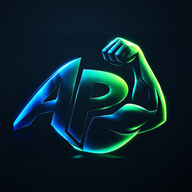
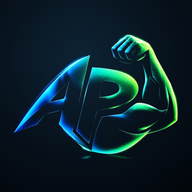
Stop the launch mark reading as a pasted image, and give it a real effort
The mark sat on a rectangle. Bisecting the splash layer by layer, with
the step measured across a scanline rather than judged by eye, found
three separate causes stacked on top of each other, each of which drew
its own box:

  · the cutout kept a veil of near-transparent background, because the
    artwork's own backdrop reaches luminance 63 and the alpha floor sat
    at 14. Any additive layer lit that veil up as a rectangle.
  · filling the artwork's interior shading by blurring and thresholding
    the luminance spread dark smudges outward past the silhouette. It is
    now a morphological close — dilate then erode at the same radius —
    which closes the interior gaps without growing the outline.
  · the glow lived on the same element as the wipe, and clip-path clips
    a filter's output, so the drop-shadow ended on a straight edge. The
    glow moved to the wrapper, the clip stayed on the image.

Also drops the additive bloom layer, whose blend inside an isolated
stacking context left the group's rectangle, and the perspective grid,
whose plane lands behind the mark as a band. The verification is an
alpha map plus the mark composited on mid-grey, where any surviving
veil is obvious.

The gesture is no longer a uniform zoom. It gathers — a short dip and
counter-rotation — then drives up and out, pivoted low so the arm
travels and the base stays planted, holds with a small tremor that is
what actually reads as effort, and releases. The scene answers: a light
[…]

Changed region(s): [[0.0625, 0.1562, 0.9375, 0.8438], [0.5625, 0.6562, 0.5938, 0.6875]]

diff --git a/index.html b/index.html
@@ -537,65 +537,115 @@ a{color:inherit;}
 #modalWeighIn .modal-foot .btn{justify-content:center;white-space:nowrap;}
 .weigh-hint{font-size:12.5px;line-height:1.5;color:var(--text-faint);margin-top:12px;}
 .field-hint{font-size:12px;line-height:1.5;color:var(--text-faint);margin-top:6px;}
-/* ---------------- pantalla de bienvenida ---------------- */
-/* La marca entra de izquierda a derecha: primero el monograma, y el brazo se
-   despliega detrás; después tensa, como quien aprieta el bíceps. */
+/* ---------------- pantalla de bienvenida ----------------
+   Criterio: movimientos cortos y precisos, luz que sólo toca el logo (nunca un
+   lavado de color sobre la pantalla) y un espacio que es el mismo de la app,
+   para que al entrar no haya salto. El brillo del esfuerzo se hace con una
+   copia del propio PNG en mezcla aditiva: así jamás aparece una caja. */
 #splash{
   position:fixed;inset:0;z-index:400;display:flex;flex-direction:column;
   align-items:center;justify-content:center;
-  background:radial-gradient(125% 95% at 46% 38%, #0e2436 0%, #071019 52%, #02060b 100%);
-  transition:opacity .45s ease, visibility .45s ease;
+  background:#04080e;
+  transition:opacity .5s cubic-bezier(.4,0,.2,1), visibility .5s;
   overflow:hidden;
 }
 #splash.gone{opacity:0;visibility:hidden;pointer-events:none;}
-.splash-stage{position:relative;display:flex;flex-direction:column;align-items:center;}
+
+.sp-bg{position:absolute;inset:0;overflow:hidden;pointer-events:none;}
+/* Sin rejilla en la bienvenida: su plano en perspectiva aterriza como una banda
+   rectangular detrás del logo y lo hace ver pegado sobre un recorte. */
+.sp-orb{position:absolute;border-radius:50%;filter:blur(90px);opacity:.16;}
+.sp-orb.o1{width:520px;height:520px;background:var(--cyan);top:-170px;left:-160px;}
+.sp-orb.o2{width:580px;height:580px;background:var(--green);bottom:-230px;right:-190px;}
+/* Charco de luz bajo la marca: contenido, del tamaño del logo, no de la pantalla. */
+.sp-pool{
+  position:absolute;left:50%;top:46%;width:min(96vw,430px);aspect-ratio:1.45/1;
+  transform:translate(-50%,-50%) scale(.9);border-radius:50%;
+  background:radial-gradient(ellipse at 38% 50%, rgba(34,232,255,.34), rgba(34,232,255,0) 62%),
+             radial-gradient(ellipse at 64% 54%, rgba(43,255,168,.34), rgba(43,255,168,0) 62%);
+  filter:blur(38px);opacity:0;
+}
+.sp-vignette{
+  position:absolute;inset:0;pointer-events:none;
+  background:radial-gradient(125% 90% at 50% 46%, transparent 42%, rgba(2,5,9,.55) 82%, rgba(2,5,9,.85) 100%);
+}
+
+.splash-stage{position:relative;display:flex;flex-direction:column;align-items:center;z-index:2;}
 .splash-mark{
   position:relative;width:min(72vw,330px);
-  transform-origin: 24% 64%;   /* el codo imaginario: el brazo es lo que se mueve */
-  will-change: transform, opacity, filter;
+  transform-origin:60% 90%;      /* la base queda plantada; el brazo es lo que sube */
+  will-change:transform;
   opacity:0;
-  filter:drop-shadow(0 0 40px rgba(34,232,255,.3));
 }
-#splash.ready .splash-mark{
-  animation: markRise .62s cubic-bezier(.16,.9,.3,1) both,
-             markFlex .54s cubic-bezier(.34,1.5,.44,1) .76s both,
-             markGlow .58s ease-out .76s both;
-}
-.splash-mark img{ width:100%;height:auto;display:block;clip-path: inset(0 100% 0 0); }
-#splash.ready .splash-mark img{ animation: markWipe .76s cubic-bezier(.22,.72,.2,1) .08s both; }
-/* El logo es una imagen recortada: un filtro sólo toca sus píxeles, así que el
-   brillo del esfuerzo se enciende en el metal sin manchar el fondo. */
-.splash-word{ width:min(56vw,245px);margin-top:14px;opacity:0; }
-#splash.ready .splash-word{ animation: wordUp .5s cubic-bezier(.2,.8,.25,1) 1.06s both; }
-.splash-word img{width:100%;height:auto;display:block;filter:drop-shadow(0 0 18px rgba(43,255,168,.22));}
+.sp-layer{position:relative;}
+.sp-layer img{width:100%;height:auto;display:block;clip-path:inset(0 100% 0 0);}
+/* El resplandor va en el contenedor y el recorte en la imagen: al revés,
+   clip-path corta la sombra y se ve el borde recto del rectángulo. */
+.sp-base{filter:drop-shadow(0 0 26px rgba(34,232,255,.3));}
+#splash.ready .sp-base img{ animation: markWipe .70s cubic-bezier(.24,.7,.22,1) .06s both; }
+#splash.ready .sp-base{ animation: markBloom .74s cubic-bezier(.3,.8,.3,1) .76s both; }
+/* Nada de capas con mezcla: dentro de un contexto de apilamiento aislado
+   dejan el rectángulo del grupo. El destello va como filtro sobre la propia
+   imagen, que ya tiene el fondo recortado, así sólo toca sus píxeles. */
+
+.splash-word{width:min(56vw,246px);margin-top:20px;opacity:0;}
+.splash-word img{width:100%;height:auto;display:block;filter:drop-shadow(0 0 16px rgba(43,255,168,.26));}
 .splash-tag{
-  margin-top:14px;font-size:11px;font-weight:700;letter-spacing:.34em;text-transform:uppercase;
+  margin-top:12px;font-size:10.5px;font-weight:700;letter-spacing:.36em;text-transform:uppercase;
   color:var(--text-faint);opacity:0;
 }
-#splash.ready .splash-tag{ animation: wordUp .5s ease 1.3s both; }
-@keyframes markRise{ from{opacity:0;transform:translateY(16px) scale(.94);} to{opacity:1;transform:none;} }
-@keyframes markWipe{ from{clip-path:inset(0 100% 0 0);} to{clip-path:inset(-10% -10% -10% -10%);} }
-/* dos tiempos: tensa y suelta */
-@keyframes markFlex{
-  0%{transform:scale(1);}
-  38%{transform:scale(1.085) translateX(1.5%);}
-  62%{transform:scale(1.025) translateX(.4%);}
-  100%{transform:scale(1);}
-}
-@keyframes markGlow{
-  0%{ filter:drop-shadow(0 0 40px rgba(34,232,255,.3)) brightness(1); }
-  38%{ filter:drop-shadow(0 0 60px rgba(43,255,168,.62)) brightness(1.3) saturate(1.18); }
-  100%{ filter:drop-shadow(0 0 40px rgba(34,232,255,.3)) brightness(1); }
-}
-@keyframes wordUp{ from{opacity:0;transform:translateY(10px);} to{opacity:1;transform:none;} }
 .splash-skip{
-  position:absolute;bottom:calc(env(safe-area-inset-bottom) + 26px);
+  position:absolute;bottom:calc(env(safe-area-inset-bottom) + 26px);z-index:3;
   background:none;border:none;color:var(--text-faint);font:600 12px Inter,sans-serif;
   letter-spacing:.08em;cursor:pointer;padding:12px 20px;opacity:0;
 }
-#splash.ready .splash-skip{ animation: wordUp .4s ease 1.55s both; }
+
+/* ---- la secuencia arranca cuando la imagen ya está decodificada ---- */
+#splash.ready .splash-mark{
+  animation: markRise .58s cubic-bezier(.2,.9,.28,1) both,
+             markForce .82s cubic-bezier(.36,.06,.24,1) .70s both;
+}
+
+#splash.ready .sp-pool{ animation: poolPulse 1.25s cubic-bezier(.3,.7,.3,1) .5s both; }
+#splash.ready .splash-word{ animation: wordUp .46s cubic-bezier(.2,.85,.25,1) 1.3s both; }
+#splash.ready .splash-tag{ animation: wordUp .46s ease 1.5s both; }
+#splash.ready .splash-skip{ animation: wordUp .4s ease 1.74s both; }
+
+@keyframes markRise{ from{opacity:0;transform:translateY(14px) scale(.95);} to{opacity:1;transform:none;} }
+@keyframes markWipe{ from{clip-path:inset(0 100% 0 0);} to{clip-path:inset(-14% -14% -14% -14%);} }
+
+/* El gesto: toma impulso, empuja, aguanta con un temblor mínimo y suelta.
+   Amplitud corta a propósito; lo que lo vende es el ritmo, no el tamaño. */
+@keyframes markForce{
+  0%   { transform:rotate(0deg)    scale(1); }
+  14%  { transform:rotate(.7deg)   scale(.982); }
+  36%  { transform:rotate(-1.85deg) scale(1.055); }
+  46%  { transform:rotate(-1.5deg)  scale(1.045); }
+  54%  { transform:rotate(-1.82deg) scale(1.053); }
+  62%  { transform:rotate(-1.58deg) scale(1.046); }
+  70%  { transform:rotate(-1.75deg) scale(1.05); }
+  100% { transform:rotate(0deg)    scale(1); }
+}
+@keyframes markBloom{
+  0%  { filter:drop-shadow(0 0 26px rgba(34,232,255,.3)) brightness(1) saturate(1); }
+  34% { filter:drop-shadow(0 0 54px rgba(43,255,168,.62)) brightness(1.28) saturate(1.16); }
+  70% { filter:drop-shadow(0 0 40px rgba(43,255,168,.42)) brightness(1.12) saturate(1.07); }
+  100%{ filter:drop-shadow(0 0 26px rgba(34,232,255,.3)) brightness(1) saturate(1); }
+}
+@keyframes poolPulse{
+  0%{opacity:0;transform:translate(-50%,-50%) scale(.86);}
+  26%{opacity:.55;transform:translate(-50%,-50%) scale(1);}
+  46%{opacity:.85;transform:translate(-50%,-50%) scale(1.06);}
+  100%{opacity:.6;transform:translate(-50%,-50%) scale(1);}
+}
+@keyframes wordUp{ from{opacity:0;transform:translateY(9px);} to{opacity:1;transform:none;} }
+
 @media (prefers-reduced-motion:reduce){
-  .splash-mark,.splash-mark img,.splash-word,.splash-tag,.splash-skip{animation-duration:.01ms !important;animation-delay:0ms !important;}
+  #splash.ready .splash-mark,#splash.ready .sp-base img,#splash.ready .sp-base,
+  #splash.ready .splash-word,#splash.ready .splash-tag,#splash.ready .splash-skip,
+  #splash.ready .sp-pool{
+    animation-duration:.01ms !important;animation-delay:0ms !important;
+  }
 }
 
 /* ---------------- onboarding ---------------- */
@@ -1086,13 +1136,19 @@ a{color:inherit;}
 <body>
 
 <div id="splash">
+  <div class="sp-bg" aria-hidden="true">
+    <div class="sp-orb o1"></div>
+    <div class="sp-orb o2"></div>
+    <div class="sp-pool"></div>
+  </div>
   <div class="splash-stage">
     <div class="splash-mark">
-      <img src="mark.webp" alt="APULSO" width="560" height="420">
+      <div class="sp-layer sp-base"><img src="mark.webp" alt="APULSO" width="560" height="420"></div>
     </div>
     <div class="splash-word"><img src="word.webp" alt="" width="480" height="44"></div>
     <div class="splash-tag">Tu fuerza, medida</div>
   </div>
+  <div class="sp-vignette" aria-hidden="true"></div>
   <button class="splash-skip" data-action="skip-splash">Entrar</button>
 </div>
 
@@ -3933,7 +3989,7 @@ let splashTimer = null;
 let obStep = 0;
 let obDraft = null;
 
-const SPLASH_MS = 2050;   /* lo que dura la animación completa */
+const SPLASH_MS = 2250;   /* lo que dura la animación completa */
 
 /* La cuenta no empieza hasta que la marca está decodificada: si arrancara con
    la página, en un móvil lento la animación se vería a medias o nada. */
